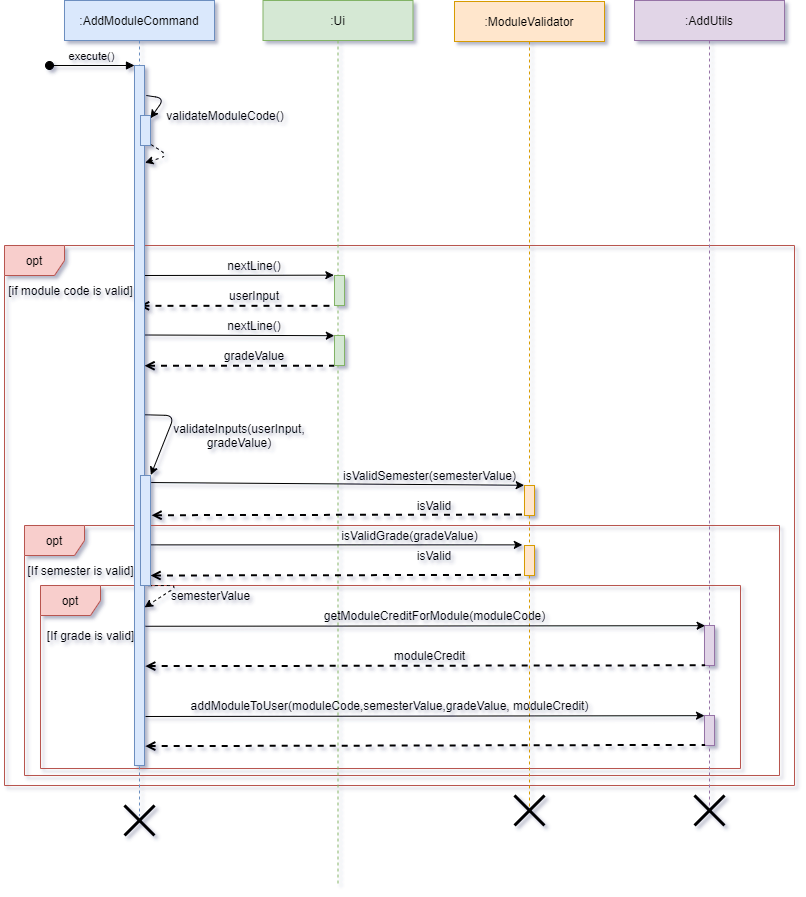
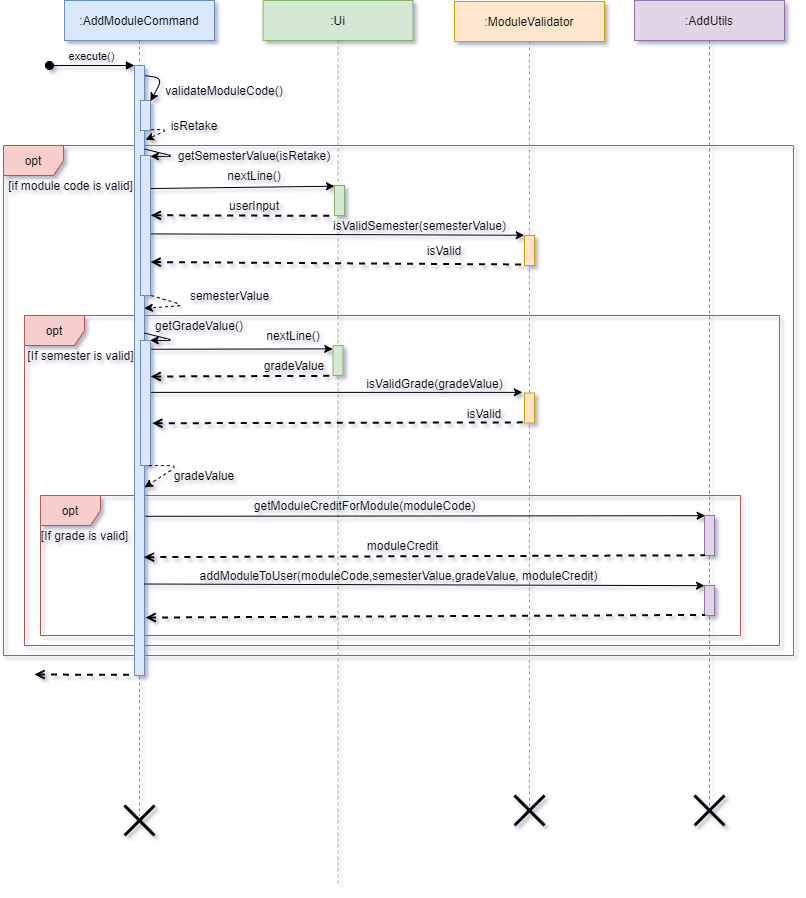
Update AddModuleCommand in DG

diff --git a/src/main/java/seedu/duke/apps/academicplanner/commands/AddModuleCommand.java b/src/main/java/seedu/duke/apps/academicplanner/commands/AddModuleCommand.java
@@ -50,7 +50,6 @@ public class AddModuleCommand extends Command {
     private AddUtils addUtils;
     private ModuleValidator moduleValidator;
     private Person currentPerson;
-    private Ui ui;
     private Scanner in;
     private String moduleCode;
     private Storage storage;
@@ -66,7 +65,6 @@ public class AddModuleCommand extends Command {
     public AddModuleCommand(ModuleLoader allModules, Person currentPerson, Ui ui, String moduleCode, Storage storage) {
         this.addUtils = new AddUtils(allModules, currentPerson);
         this.moduleValidator = new ModuleValidator(allModules, currentPerson);
-        this.ui = ui;
         this.in = ui.getScanner();
         this.moduleCode = moduleCode;
         this.currentPerson = currentPerson;

diff --git a/docs/DeveloperGuide.md b/docs/DeveloperGuide.md
@@ -43,7 +43,7 @@ The ***Architecture Diagram*** given above explains the high-level design of Pla
 
 #### 3.2.1. PlanNus
 
-`PlanNus` class contains the `main` and `run` method, which is responsible for
+`PlanNus` class contains the `main` and `run` method, which is responsible for the following:
 
   * At launch
 
@@ -67,8 +67,8 @@ The ***Architecture Diagram*** given above explains the high-level design of Pla
 #### 3.2.2. Global, Ui, Parser, Storage, Apps
 
 * The `global` package contains classes, exceptions and objects that are required across the whole app. 
-* The `ui` package contains the class that is responsible for sharing one `scanner` class across the whole app to prevent multiple IO streams
-* The `parser` package contains the class that handles user's app selection
+* The `ui` package contains the class which is responsible for sharing one `scanner` class across the whole app to prevent multiple IO streams
+* The `parser` package contains the class which handles user's app selection
 * The `storage` package handles loading and saving of user's data to a save file.
 * Packages for Available apps such as Academic Planner and CAP Calculator are stored within `apps` package
 
@@ -76,10 +76,10 @@ The ***Architecture Diagram*** given above explains the high-level design of Pla
 
 ### 3.3. Project Structure
 
-Each package in the PlanNUS as given above follows the following file structure where applicable:
+Each package in PlanNUS as given above follows the following file structure where applicable:
 
-* A functional class that acts as the entry point to that module
-* A parser class that parses user input into executable commands by PlanNUS
+* A functional class which acts as the entry point to that module
+* A parser class which parses user input into executable commands by PlanNUS
 
 * `commands`: A package that handles all executable commands given by parser
 * `commons`: A package with the utilities and shared classes across the parent package
@@ -116,7 +116,7 @@ The [*sequence diagram*](#sequence-diagram) below shows how different packages a
     <img src="./images/DeveloperGuide/Global_Diagram.png" alt="Storage architecture diagram of PlanNUS"/>
 </div>
 
-Classes used by multiple components part of the `global` component of PlanNUS. This includes classes such as `App`,`Command` and `LoggingTool`. The main object classes `PartialModule`, `FullModule` and `Person` are also within the global component.
+Classes used by multiple components are part of the `global` component of PlanNUS. This includes classes such as `App`,`Command` and `LoggingTool`. The main object classes `PartialModule`, `FullModule` and `Person` are also within the global component.
 
 **API** : `src.main.java.global`
 
@@ -180,7 +180,7 @@ and `String`. Below is a table of what each parameter corresponds to in the stat
 |:---:|:---:|:---:|
 |`ModuleLoader`| Class representing all modules offered by NUS | `allModules` |
 |`Person`| Class representing current user's information | `currentPerson`|
-|`Ui`| Class representing java's default scanner class | `in`|
+|`Ui`| Class encapsulating java's default scanner class | `in`|
 |`String` | Class representing the module code to be added | `moduleCode`|
 
 <div style="text-align:center">
@@ -190,9 +190,9 @@ and `String`. Below is a table of what each parameter corresponds to in the stat
 __Step 2__ : `execute()` is called from the instance of `AddModuleCommand`. It can throw `AcademicException` 
 or `IOException`. `FileHandler` and `Logger` classes from the _java API_ are instantiated to handle logging for the remainder of the `execute()` method. 
 
-__Step 3__ : `in` then reads in the next two lines of input, which is the user's input for the desired semester for the `moduleCode` and `moduleCode`'s grades.
+__Step 3__ : `in` then reads in the line of input, which is the user's input for the desired semester for the `moduleCode`. This is then validated against `allModules`, while accounting for `isRetake` variable. 
 
-__Step 4__ : `validateInputs()` is called from `ModuleValidator` to validate the user entered data against `allModules`.
+__Step 4__ : The next line of input is read from `in`, which is the user's input for grade value, which is also validated by `ModuleValidator`.
 
 __Step 5__ : `AddUtils` is called upon to return module credit for `moduleCode` by `getModuleCreditForModule()`.
 
